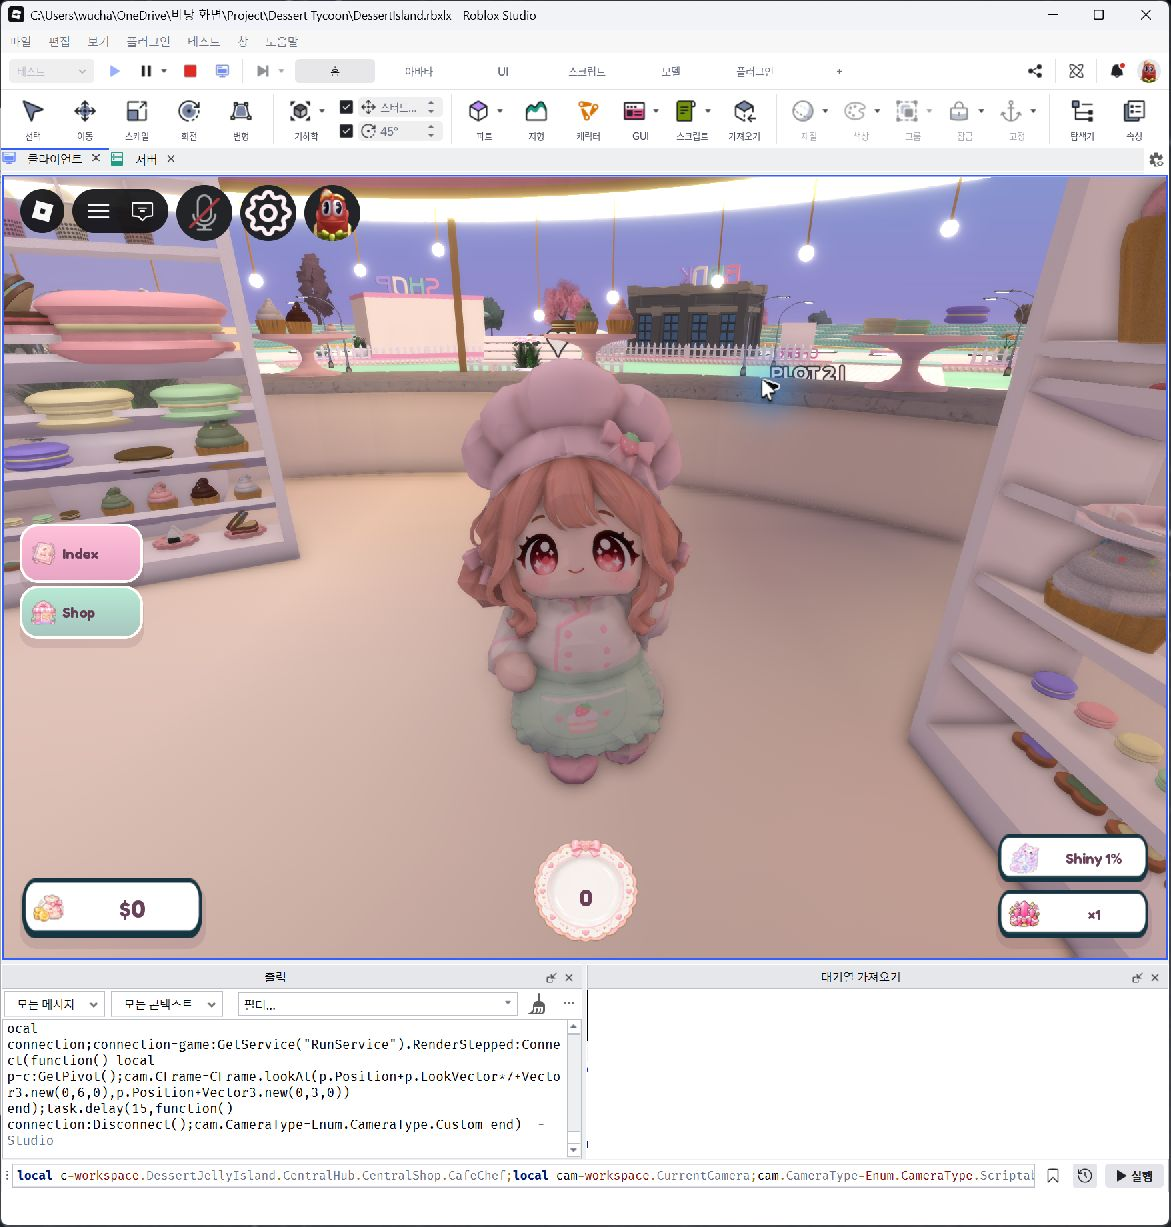
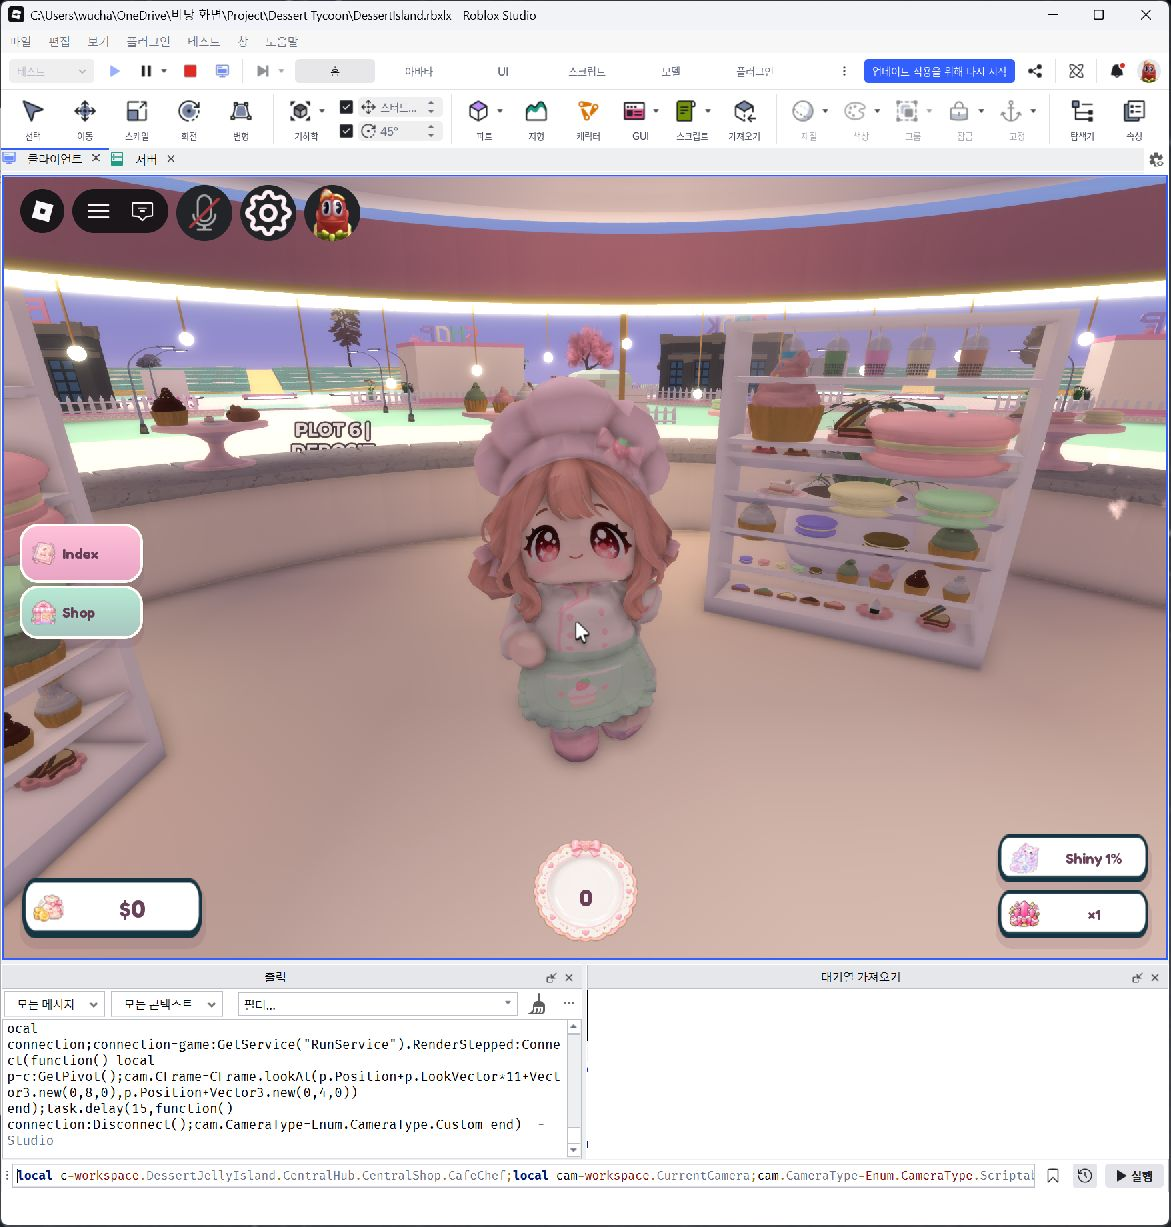
Increase cafe chef size and movement speed with scaled clearance

diff --git a/docs/GAMEPLAY.md b/docs/GAMEPLAY.md
@@ -79,4 +79,6 @@ A visible Microphone button sits before Settings and Profile, reusing Roblox bui
 
 Normal and Perk crates occupy one centered row, Normal on the left and Perk on the right. Each card places Details below its art, with Open 1 on the left and Open 10 on the right. Free/paid credits are consumed server-side; without credits the same buttons prompt configured purchases. Missing IDs disable paid actions. Details expands exact outcome odds only when requested. Supplied art includes all 23 PNGs, including the multiplier HUD arrow.
 
-The user-provided cafe chef is a single 3,165-triangle rigged mesh, scaled to 5.8 studs with a foot-center pivot. One server walker uses the imported Walking clip, an anchored non-colliding mesh and a navigation graph built once from actual cafe decorations, including non-queryable props. Destinations stay within a 20-stud interior radius, routes avoid shelves/flowers/counters, and brief pauses alternate with walking. This NPC has no economy actions or player interaction.
+The user-provided cafe chef is a single 3,165-triangle rigged mesh, scaled to 8 studs with a foot-center pivot. One server walker uses the imported Walking clip, an anchored non-colliding mesh and a navigation graph built once from actual cafe decorations, including non-queryable props. Destinations stay within a 20-stud interior radius, routes avoid shelves/flowers/counters, and brief pauses alternate with walking. This NPC has no economy actions or player interaction.
+
+Current chef tuning: height 8 studs, travel speed 6 studs/sec, walking animation speed 1.15, heading turn 0.12 seconds. Navigation clearance and obstacle height derive from the chef mesh size.

diff --git a/docs/ASSETS.md b/docs/ASSETS.md
@@ -124,5 +124,5 @@ Reuse approved lamp/fence sources: 24 lamps point inward at their own road, 6 ce
 - Microphone follows the user's Roblox topbar reference and reuses built-in rbxasset://textures/ui/VoiceChat/MicLight/Muted.png and Unmuted0.png. Verified both files in the installed Roblox texture bundle; no external asset upload, imported script or executable package.
 
 ## 2026-10-15 — User-provided rigged cafe chef
-- User supplied the Meshy AI chef static FBX/textures ZIP, rigged biped ZIP, and reference portrait. Uses the rigged source, one mesh with 3,165 triangles and 22 bones. Runtime color/geometry unchanged; uniform height 5.8 studs, foot-center pivot, emissive strength 0 to remove unintended glow. Mesh 124893487789324, color map 81596257819395, Walking clip 79831780716711, uploaded to the signed-in creator through Studio Importer.
+- User supplied the Meshy AI chef static FBX/textures ZIP, rigged biped ZIP, and reference portrait. Uses the rigged source, one mesh with 3,165 triangles and 22 bones. Runtime color/geometry unchanged; uniform height 8 studs, foot-center pivot, emissive strength 0 to remove unintended glow. Mesh 124893487789324, color map 81596257819395, Walking clip 79831780716711, uploaded to the signed-in creator through Studio Importer.
 - Clean template in ServerStorage.CafeChefTemplate; one CafeChef inside the central cafe. Anchored, non-colliding/non-touching/non-queryable with shadows disabled. No imported executable scripts/package links/interactions. Original animation saves retained for editing. Source hashes recorded in assets/chef/manifest.json.

diff --git a/docs/WORKLOG.md b/docs/WORKLOG.md
@@ -241,3 +241,7 @@ PASS: PlayerProfiles deterministic mock verifies persisted gift/AFK clocks, dupl
 - Imported the user-provided Meshy biped chef and Walking animation. Preserved mesh/texture/skinning, scaled height to 5.8 studs, corrected foot-center pivot and disabled unintended emissive glow. Stored a clean template and one interior chef.
 - Added CafeChefNavigation and CafeChef server walker: 187 connected safe nodes built from actual non-queryable props, interior radius 20, cached routing, one anchored mesh, no humanoid physics/economy hooks. Walks at 3.2 studs/sec, turns only when heading changes and pauses briefly at destinations.
 - Live regression confirms imported bone deformation, continued movement, correct height/boundary/non-collision. Navigation regression validates every edge and 40 routes against actual decor. Source/place audit and GitHub save follow. Proof: docs/previews/cafe-chef-live.jpg.
+
+## 2026-10-15 — Larger and quicker cafe chef
+- User found the chef too small/slow: increased height from 5.8 to 8 studs (+38%) and movement speed from 3.2 to 6 studs/sec (+88%). Updated both live model and clean template, sped up walking clip to 1.15, shortened heading turns to 0.12s.
+- Navigation clearance/height now derive from the actual scaled mesh. Revalidated all edges and 40 routes against cafe props, plus live movement/bone deformation.
